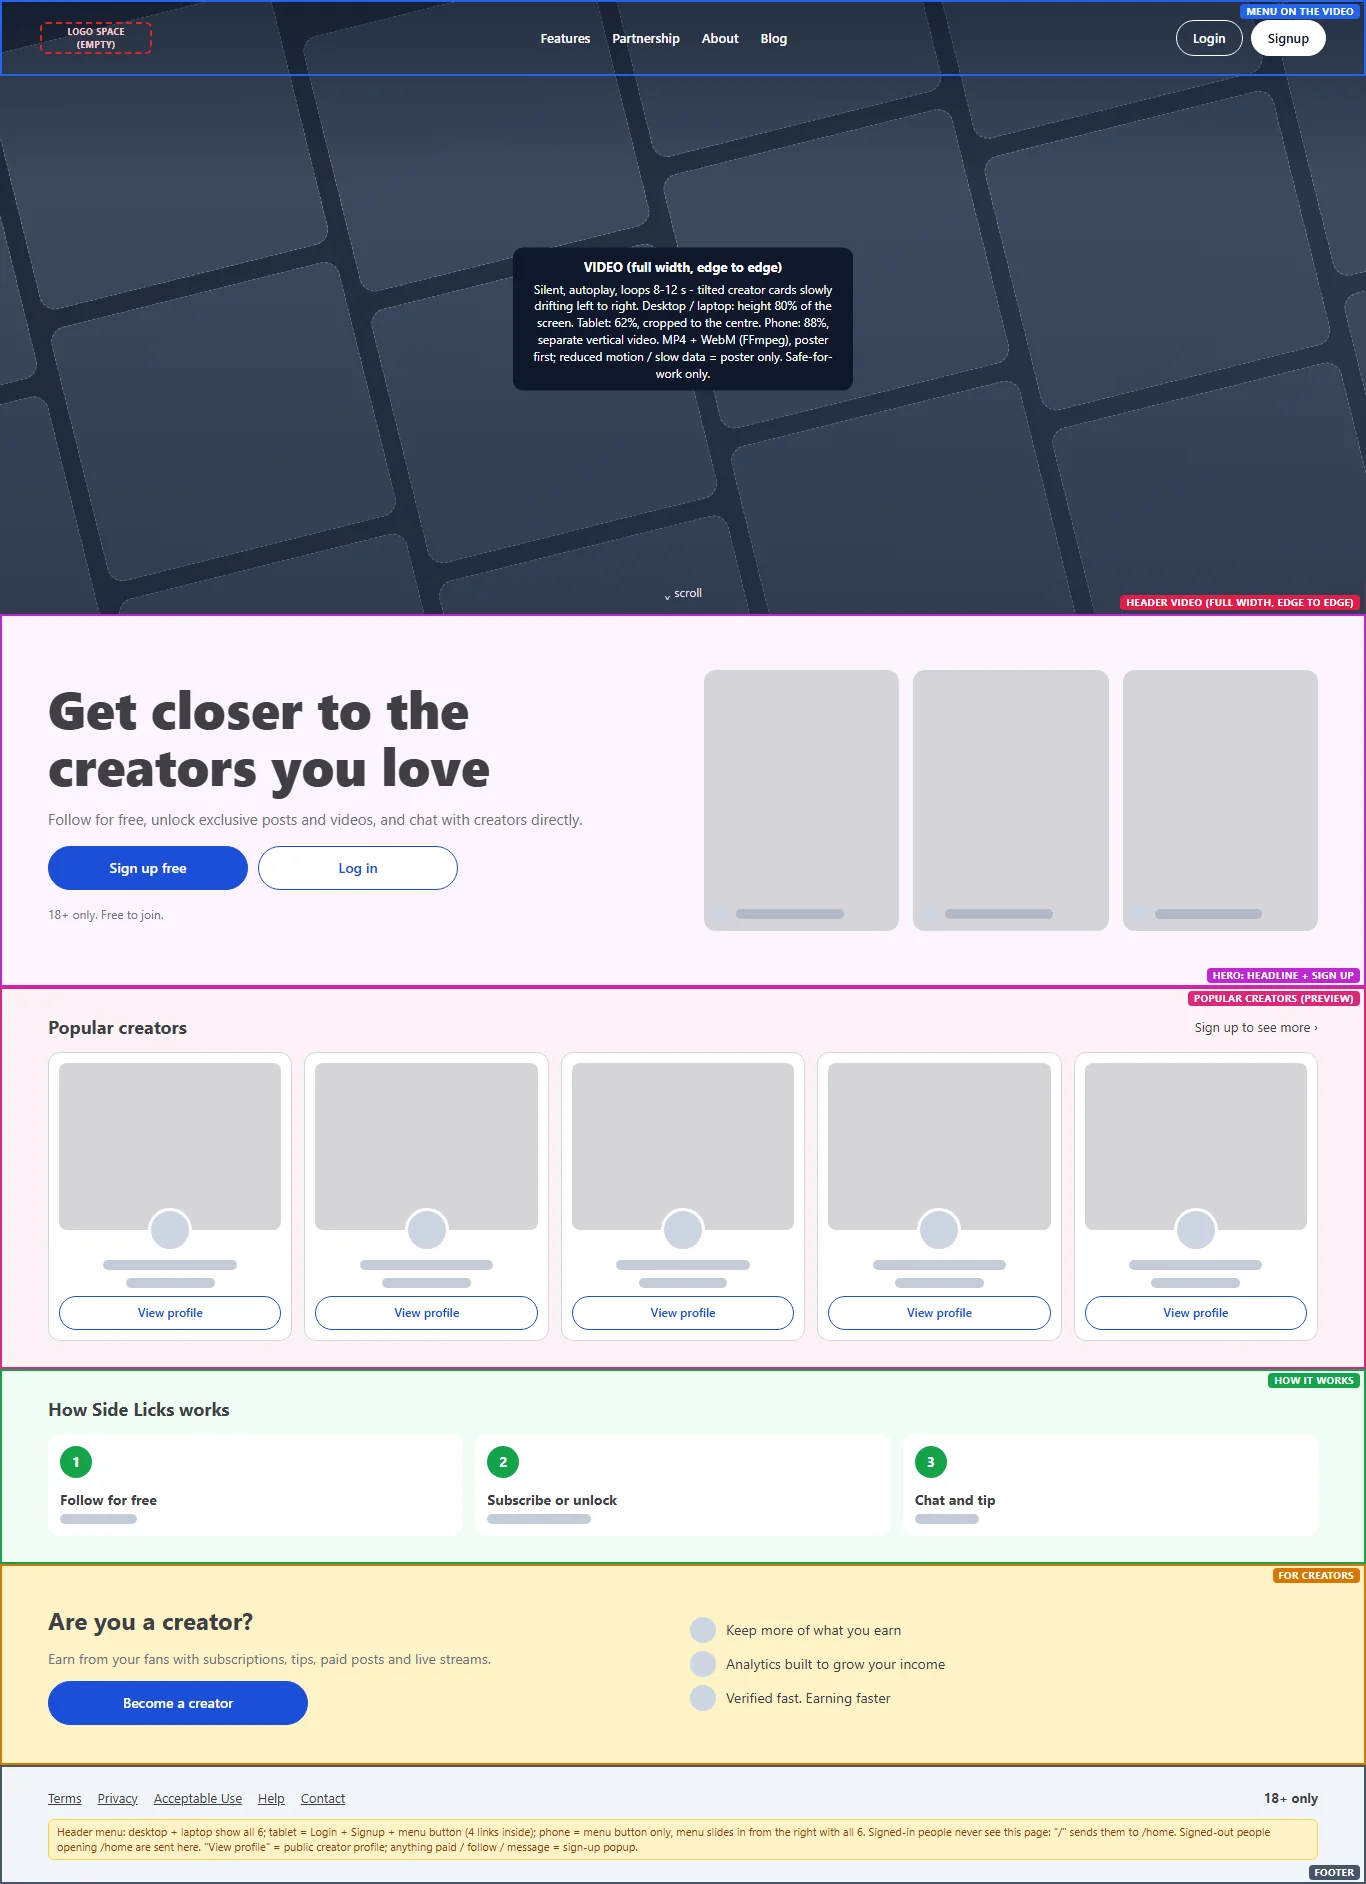
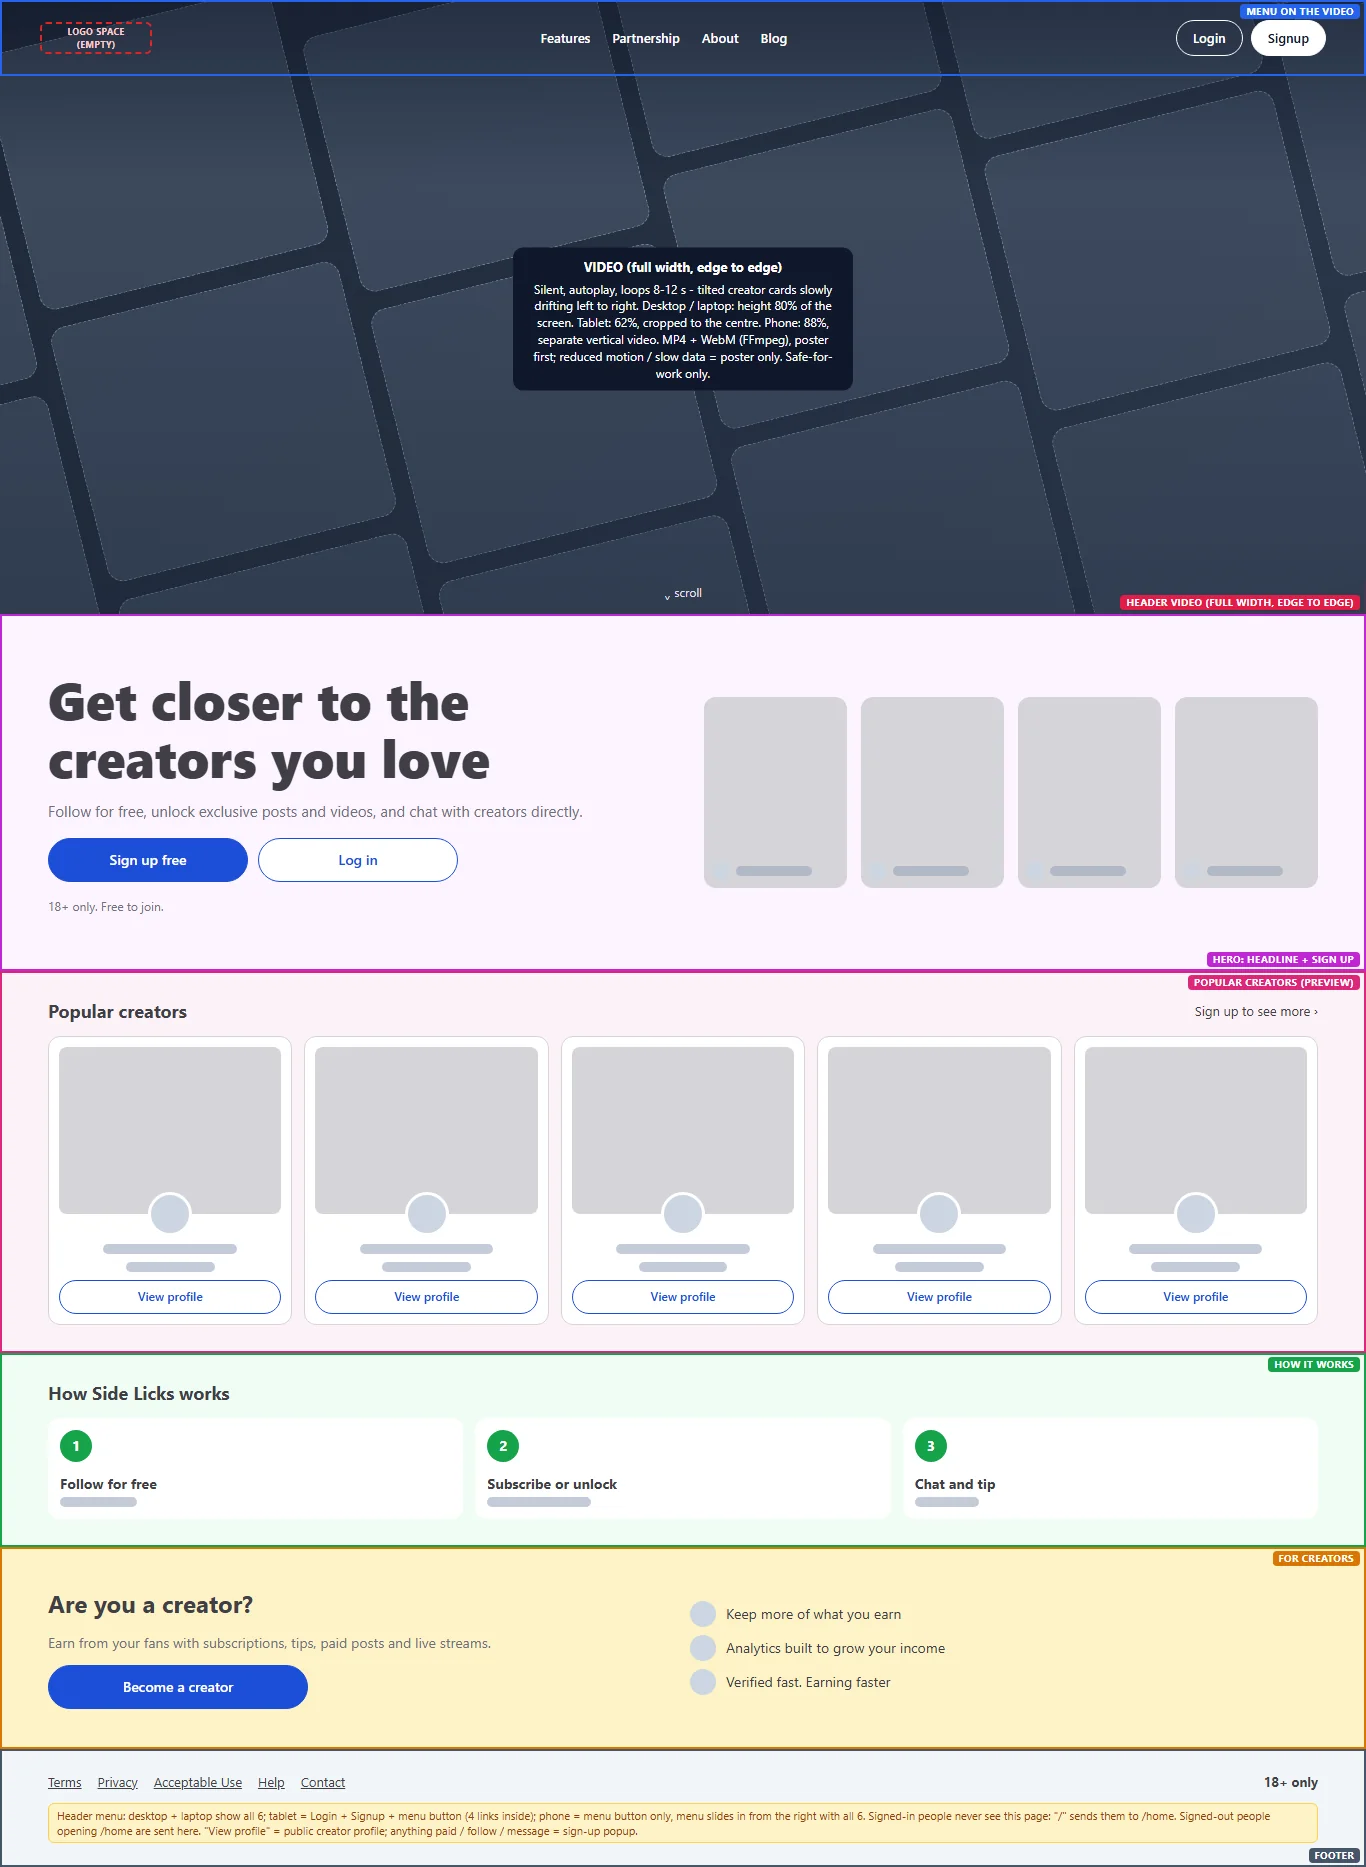
Main page wireframe: desktop hero = 4 boxes (owner)

diff --git a/wireframes/landing.html b/wireframes/landing.html
@@ -111,12 +111,13 @@
   }
   @media (min-width: 1024px) {
     .band { padding-left: 48px !important; padding-right: 48px !important; }
-    /* laptop + desktop (owner 2026-10-28): ONE row of 3 pictures, right next to the text (no big gap between them) */
-    .hero { grid-template-columns: minmax(0, 600px) minmax(0, 640px); justify-content: start; text-align: left; align-items: center; gap: 56px; padding: 56px 40px; }
+    /* laptop + desktop (owner 2026-10-28): ONE row of 4 pictures, right next to the text (no big gap between them) */
+    .hero { grid-template-columns: minmax(0, 600px) minmax(0, 820px); justify-content: start; text-align: left; align-items: center; gap: 56px; padding: 56px 40px; }
     .hero .acts { justify-content: start; }
     .hero h1 { font-size: 52px; }
-    .collage { grid-template-columns: repeat(3, 1fr); }
-    .collage .tile:nth-child(n+4) { display: none; }
+    .collage { grid-template-columns: repeat(4, 1fr); }
+    .collage .tile:nth-child(4) { display: grid; }
+    .collage .tile:nth-child(n+5) { display: none; }
     .collage { width: 100%; justify-self: start; gap: 14px; }
     .cards { grid-auto-columns: calc((100% - 48px) / 5); }
     .creator { grid-template-columns: 1fr 1fr; text-align: left; align-items: center; padding: 40px; }

diff --git a/design.md b/design.md
@@ -54,7 +54,7 @@ Font: Geist (next/font, self-hosted at build). Change brand colours in one place
 
 **After sign-up: Become a creator** (F117, approved + built 2026-10-28 at /onboarding) - shown to every new user right after sign-up, before Home (owner). Full screen, soft glow at the top, empty logo space centred. 6 steps from the Excel (S104-S109): coins "Top creators earn over $X per month", globe "One platform. Built to make creators money", coins "Keep X% for N days after you verify. Then Y%", bar chart "Analytics built to grow your income", pie chart "Refer a creator. Earn X% of their income", tick "Verified fast. Earning faster". Layout v2 (owner 2026-10-28: v1 side-by-side "looked edgy and bleeding out"): ONE centred column on every size (max 420 / 480 / 520 / 560 px phone / tablet / laptop / desktop) - logo space, 3D picture, headline UNDER the picture, arrows at the column edges with dots between (active dot = short bar), terms line, buttons. Arrows (back hidden on step 1, next hidden on step 6), swipe, auto-move until touched; terms line; "Start earning" (creator application F35 - for now a toast "comes in a later step" -> Home) and "Close" (-> Home). Shown once: after the Check your email popup (X or Send again) and on the first log-in if never seen; "Become a Creator" in the menu opens it any time. Numbers only show once the admin sets them; until then the step uses the same idea without a number (e.g. "Top creators earn real money every month"). Pictures = simple line icons on a soft tile until the 3D artwork (after F5).
 
-**Main page `/`** (F121, v3 2026-10-28, waiting - every section under the video is FULL WIDTH like the video, edge-to-edge bands, no empty white space left / right; only the inside padding grows: 16 / 32 / 48 / 80 px phone / tablet / laptop / desktop) - the page people see at www.sidelicks.com before they log in; /home is ONLY for signed-in people (owner). HEADER = full-width video, edge to edge (owner v2): silent, autoplay, loops 8-12 s, tilted creator cards slowly drifting left to right; height 80% of the screen on desktop + laptop, 62% tablet (cropped to the centre), 88% phone (separate vertical video); MP4 + WebM via FFmpeg, poster first, reduced motion / slow data = poster only, safe-for-work only; rounded bottom corners, "scroll" hint. Menu on top of the video: Logo space | Features | Partnership | About | Blog | Login | Signup - desktop + laptop show all; tablet = Login + Signup + menu button (4 links inside); phone = menu button only, menu slides in from the right with all 6 (Signup = main button). Under the video, hero: "Get closer to the creators you love", short line, Sign up free + Log in, "18+ only. Free to join."; creator pictures on the right on laptop + desktop = ONE row of 3 boxes placed right next to the text (owner 2026-10-28) or under the text (tablet + phone). Popular creators row (preview cards: cover, avatar, name, View profile; sideways scroll). How it works: 1 Follow for free, 2 Subscribe or unlock, 3 Chat and tip. For creators band: "Are you a creator?" + Become a creator + 3 points (no numbers). Footer: Terms, Privacy, Acceptable Use, Help, Contact, 18+ only. Signed in at "/" -> /home; signed out at /home -> "/". Follow / pay / message while signed out -> sign-up popup.
+**Main page `/`** (F121, v3 2026-10-28, waiting - every section under the video is FULL WIDTH like the video, edge-to-edge bands, no empty white space left / right; only the inside padding grows: 16 / 32 / 48 / 80 px phone / tablet / laptop / desktop) - the page people see at www.sidelicks.com before they log in; /home is ONLY for signed-in people (owner). HEADER = full-width video, edge to edge (owner v2): silent, autoplay, loops 8-12 s, tilted creator cards slowly drifting left to right; height 80% of the screen on desktop + laptop, 62% tablet (cropped to the centre), 88% phone (separate vertical video); MP4 + WebM via FFmpeg, poster first, reduced motion / slow data = poster only, safe-for-work only; rounded bottom corners, "scroll" hint. Menu on top of the video: Logo space | Features | Partnership | About | Blog | Login | Signup - desktop + laptop show all; tablet = Login + Signup + menu button (4 links inside); phone = menu button only, menu slides in from the right with all 6 (Signup = main button). Under the video, hero: "Get closer to the creators you love", short line, Sign up free + Log in, "18+ only. Free to join."; creator pictures on the right on laptop + desktop = ONE row of 4 boxes placed right next to the text (owner 2026-10-28) or under the text (tablet + phone). Popular creators row (preview cards: cover, avatar, name, View profile; sideways scroll). How it works: 1 Follow for free, 2 Subscribe or unlock, 3 Chat and tip. For creators band: "Are you a creator?" + Become a creator + 3 points (no numbers). Footer: Terms, Privacy, Acceptable Use, Help, Contact, 18+ only. Signed in at "/" -> /home; signed out at /home -> "/". Follow / pay / message while signed out -> sign-up popup.
 
 **Live now row** (owner 2026-10-28): exactly 5 rings in view on every size (each 1/5 of the row, ring 50 / 68 / 80 / 92 px phone / tablet / laptop / desktop), first name + "N watching" (phone: eye icon + N), arrows / swipe move a full 5, left arrow grey at the start, right arrow grey at the end.
 

diff --git a/CLAUDE.md b/CLAUDE.md
@@ -33,7 +33,7 @@ Details: `code.md` (how to run, structure, tests), `design.md` (screens, sizes, 
 
 ## Status (update every task)
 
-- 2026-10-27 Step 1 (B20 + F6 wireframes): project set up, start page + `/api/health` working, wireframes for register / verify email / home made at 4 sizes - **wireframes APPROVED by owner 2026-10-28** (register, verify email, home; with continuous scroll on Discover). F5 (logo) waits for owner. Git remote `origin` = GitHub repo above; Excel task list now v81. First approval message was withdrawn by the owner (no pictures had been shown); colour-coded pictures sent 2026-10-27. Home redesigned (layout v2: live rings, post grid, suggestions inside the feed; then v3: owner wants the menu ALWAYS on the left on every device, no bottom bar). Discover (2026-10-28) = one-line video row -> "Creators you may like" row -> new video row with different creators -> ... (owner). Feed algorithm changed by owner: Discover tab opens first on every login (videos, tap name = profile), Subscribed tab next to it (only followed / subscribed creators); first-login screen replaced by this. Branded mockups wait for the logo (F5).
+- 2026-10-27 Step 1 (B20 + F6 wireframes): project set up, start page + `/api/health` working, wireframes for register / verify email / home made at 4 sizes - **wireframes APPROVED by owner 2026-10-28** (register, verify email, home; with continuous scroll on Discover). F5 (logo) waits for owner. Git remote `origin` = GitHub repo above; Excel task list now v82. First approval message was withdrawn by the owner (no pictures had been shown); colour-coded pictures sent 2026-10-27. Home redesigned (layout v2: live rings, post grid, suggestions inside the feed; then v3: owner wants the menu ALWAYS on the left on every device, no bottom bar). Discover (2026-10-28) = one-line video row -> "Creators you may like" row -> new video row with different creators -> ... (owner). Feed algorithm changed by owner: Discover tab opens first on every login (videos, tap name = profile), Subscribed tab next to it (only followed / subscribed creators); first-login screen replaced by this. Branded mockups wait for the logo (F5).
 - 2026-10-28 **Step 1A DONE: home page built** at http://localhost:3000/home (sample data; real feed API = B110, accounts = B25). Tested 3 runs x 4 sizes. Next: review with the owner which steps come next (owner asked for this), then build register / verify email.
 - 2026-10-28 **Step 1B (owner: register + login before "check your email")**: register BUILT (real page + API + database + Check your email popup + toasts). Login wireframe **approved 2026-10-28** and login BUILT (page + `POST /api/auth/login` + "Send it again"); unverified emails can not log in until verified. Sign up button added under Log in (owner); login wireframe approved again with it. After sign-up "Become a creator" steps wireframe (F117, 6 steps from the Excel) made, redone as one centred column, **approved and BUILT** at /onboarding (owner 2026-10-28). Excel v77. Emails only go to the `email_outbox` table until an email service is chosen (E1).
 

diff --git a/code.md b/code.md
@@ -152,3 +152,4 @@ Goal: Discover never ends, rows never look cut off, and the fan is not worn out 
 - 2026-10-28 landing.html v2: header video zone (z-video) with the menu on top + phone/tablet menu state ("menu").
 - 2026-10-28 landing.html v3: sections are full-width bands (.band) like the video header.
 - 2026-10-28 landing.html: laptop + desktop hero = 3 picture boxes in one row next to the text (owner).
+- 2026-10-28 landing.html: laptop + desktop hero = 4 boxes (owner).
